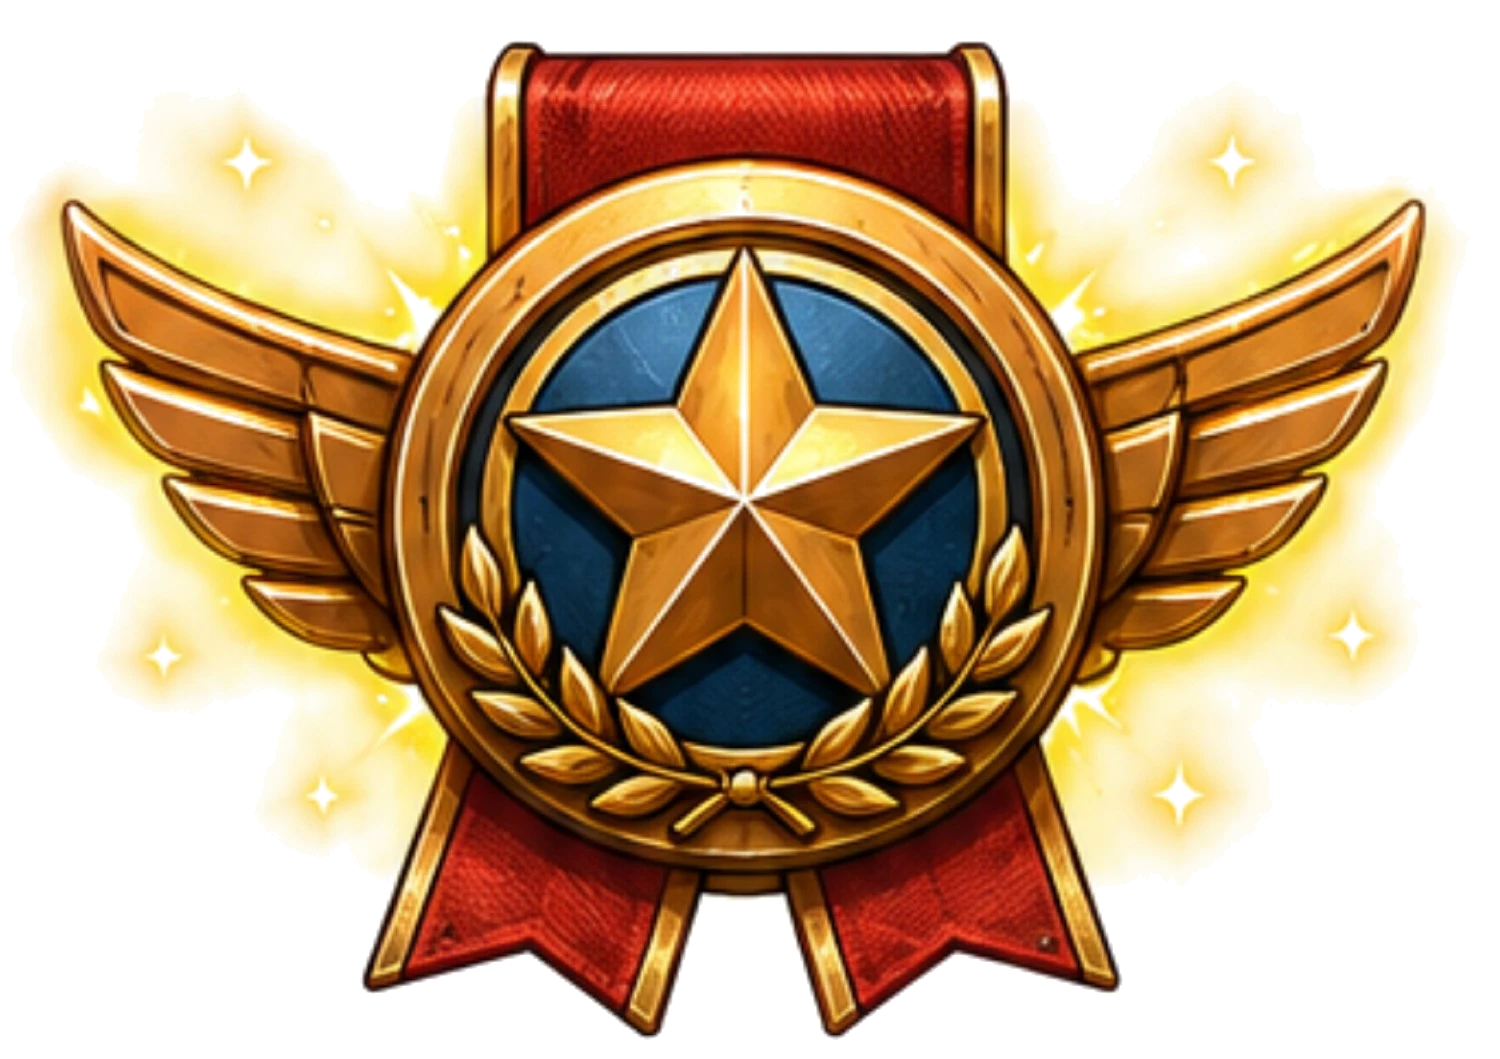
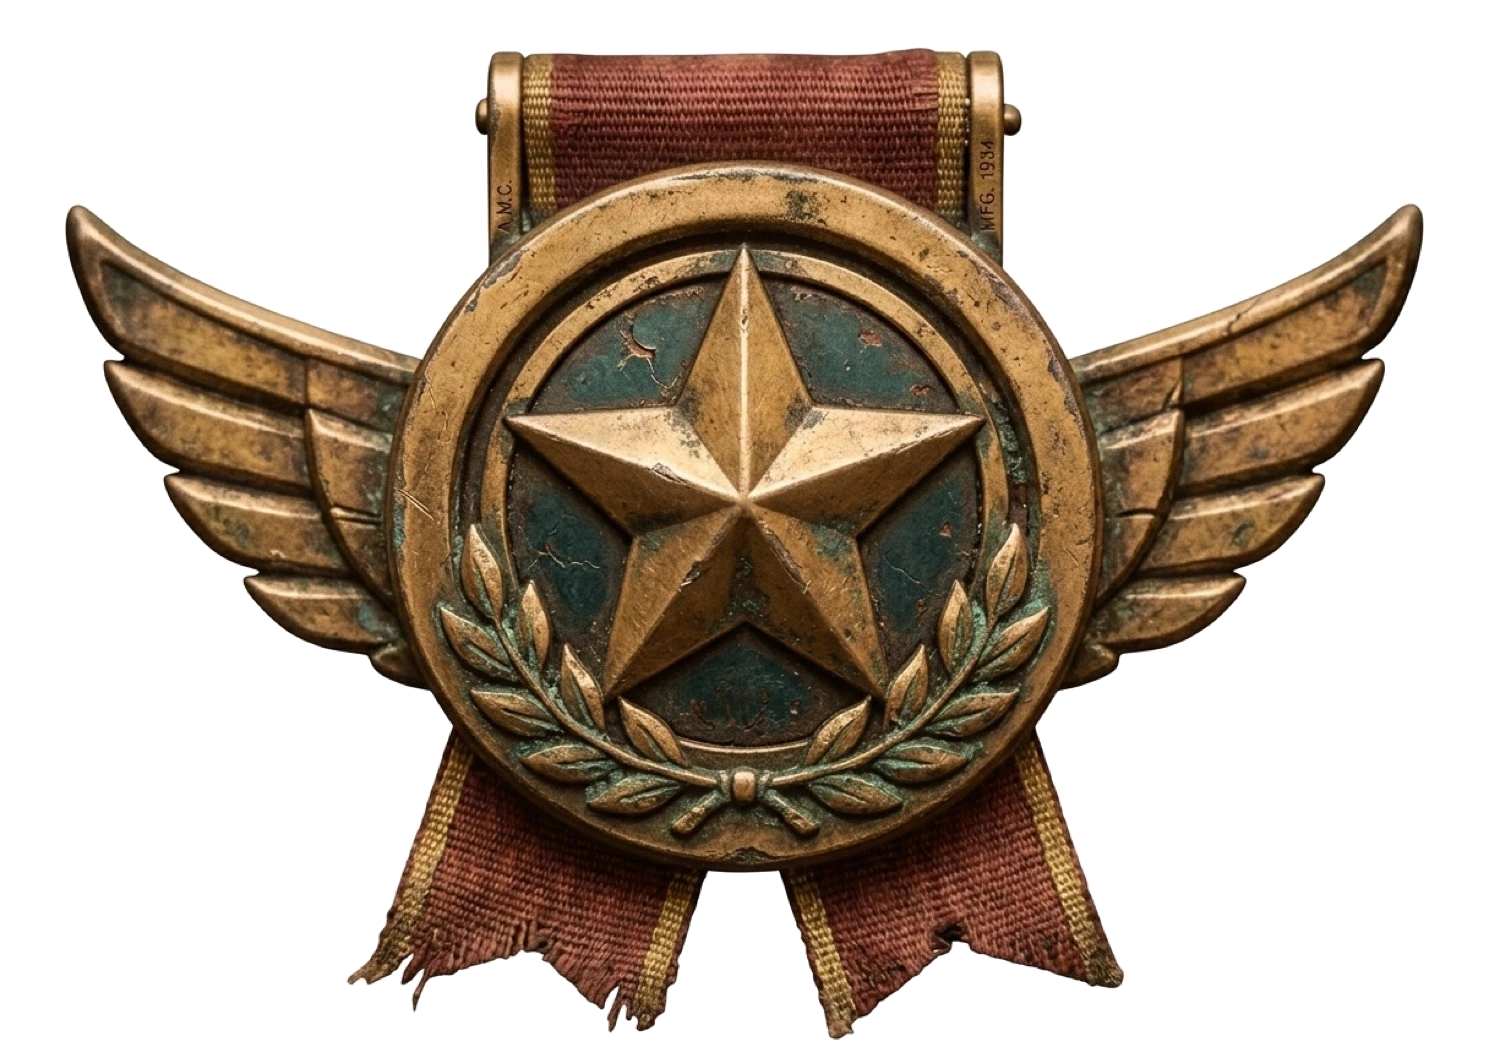
Add files via upload

diff --git a/bosses.js b/bosses.js
@@ -1526,84 +1526,104 @@
       ctx.restore();
     }
 
-    // Stats celebration panel (~5s) with medal behind + count-up numbers
+    // Stats celebration panel with bronze medal + staged fade-in
     if ((levelEndPhase === "stats" || levelEndPhase === "fadeOut") && levelEndStats) {
       const s = levelEndStats;
       const panelW = Math.min(W * 0.78, 320);
       const panelH = 210;
       const px = (W - panelW) / 2;
       const py = H * 0.28;
-      const alpha = levelEndPhase === "fadeOut" ? Math.max(0, 1 - levelEndFade) : Math.min(1, levelEndTimer * 2);
+      const fadeOutA = levelEndPhase === "fadeOut" ? Math.max(0, 1 - levelEndFade) : 1;
 
-      const countT = levelEndPhase === "fadeOut" ? 1 : Math.min(1, levelEndTimer / 3.2);
+      // Staged reveal: medal first, then panel, then text
+      const tMedal = levelEndPhase === "fadeOut" ? 1 : Math.min(1, levelEndTimer / 0.55);
+      const tPanel = levelEndPhase === "fadeOut" ? 1 : Math.max(0, Math.min(1, (levelEndTimer - 0.25) / 0.5));
+      const tText  = levelEndPhase === "fadeOut" ? 1 : Math.max(0, Math.min(1, (levelEndTimer - 0.55) / 0.45));
+      const easeIn = function(u) { return 1 - Math.pow(1 - u, 3); };
+      const eMedal = easeIn(tMedal);
+      const ePanel = easeIn(tPanel);
+      const eText  = easeIn(tText);
+
+      const countT = levelEndPhase === "fadeOut" ? 1 : Math.min(1, Math.max(0, (levelEndTimer - 0.6) / 3.0));
       const ease = 1 - Math.pow(1 - countT, 3);
       function countInt(target) {
         return Math.round((Number(target) || 0) * ease);
       }
 
-      ctx.save();
-      ctx.globalAlpha = alpha;
-
-      // Medal badge BEHIND the score box — larger than the panel
+      // --- Medal (behind) — scale + fade in from center ---
       const medal = images.medal_badge;
-      if (medal && medal.naturalWidth) {
+      if (medal && medal.naturalWidth && eMedal > 0.01) {
         const medalW = panelW * 1.55;
         const medalH = medalW * (medal.naturalHeight / medal.naturalWidth);
-        const mx = W / 2 - medalW / 2;
-        const my = py + panelH / 2 - medalH / 2 - 8;
+        const scale = 0.72 + 0.28 * eMedal;
+        const mw = medalW * scale;
+        const mh = medalH * scale;
+        const mx = W / 2 - mw / 2;
+        const my = py + panelH / 2 - mh / 2 - 8;
         ctx.save();
-        ctx.globalAlpha = alpha * 0.95;
-        ctx.drawImage(medal, mx, my, medalW, medalH);
+        ctx.globalAlpha = fadeOutA * eMedal;
+        ctx.drawImage(medal, mx, my, mw, mh);
         ctx.restore();
       }
 
-      // Semi-transparent glass panel matching medal gold / navy / red
-      ctx.fillStyle = "rgba(18, 28, 55, 0.42)"; // navy-blue glass
-      roundRect(ctx, px, py, panelW, panelH, 16);
-      ctx.fill();
-      // Gold rim
-      ctx.strokeStyle = "rgba(212, 170, 70, 0.9)";
-      ctx.lineWidth = 2.5;
-      roundRect(ctx, px, py, panelW, panelH, 16);
-      ctx.stroke();
-      // Soft red inner accent (ribbon colors)
-      ctx.strokeStyle = "rgba(180, 40, 40, 0.35)";
-      ctx.lineWidth = 5;
-      roundRect(ctx, px + 3, py + 3, panelW - 6, panelH - 6, 13);
-      ctx.stroke();
+      // --- Glass panel (bronze / patina tones) ---
+      if (ePanel > 0.01) {
+        ctx.save();
+        ctx.globalAlpha = fadeOutA * ePanel * 0.95;
+        // Slight rise as it appears
+        const yOff = (1 - ePanel) * 18;
+        const ppx = px;
+        const ppy = py + yOff;
 
-      ctx.textAlign = "center";
-      ctx.fillStyle = "#f5e6b8"; // soft gold
-      ctx.font = "bold 22px 'Rockwell', 'Rockwell Nova', 'Roboto Slab', Georgia, serif";
-      ctx.shadowColor = "rgba(0,0,0,0.55)";
-      ctx.shadowBlur = 6;
-      const clearLvl = s.levelNum || bossesDefeatedCount;
-      ctx.fillText("LEVEL " + clearLvl + " CLEAR", W / 2, py + 34);
-      ctx.shadowBlur = 0;
+        ctx.fillStyle = "rgba(42, 32, 22, 0.48)"; // aged bronze glass
+        roundRect(ctx, ppx, ppy, panelW, panelH, 16);
+        ctx.fill();
+        ctx.strokeStyle = "rgba(180, 140, 75, 0.85)"; // bronze rim
+        ctx.lineWidth = 2.5;
+        roundRect(ctx, ppx, ppy, panelW, panelH, 16);
+        ctx.stroke();
+        ctx.strokeStyle = "rgba(120, 55, 40, 0.4)"; // ribbon rust accent
+        ctx.lineWidth = 5;
+        roundRect(ctx, ppx + 3, ppy + 3, panelW - 6, panelH - 6, 13);
+        ctx.stroke();
 
-      ctx.font = "14px 'Rockwell', 'Rockwell Nova', 'Roboto Slab', Georgia, serif";
-      ctx.fillStyle = "rgba(245, 230, 190, 0.85)";
-      ctx.fillText((s.bossName || "Boss") + " defeated", W / 2, py + 56);
+        if (eText > 0.01) {
+          ctx.globalAlpha = fadeOutA * eText;
+          ctx.textAlign = "center";
+          ctx.fillStyle = "#e8d4a8";
+          ctx.font = "bold 22px 'Rockwell', 'Rockwell Nova', 'Roboto Slab', Georgia, serif";
+          ctx.shadowColor = "rgba(0,0,0,0.55)";
+          ctx.shadowBlur = 6;
+          const clearLvl = s.levelNum || bossesDefeatedCount;
+          ctx.fillText("LEVEL " + clearLvl + " CLEAR", W / 2, ppy + 34);
+          ctx.shadowBlur = 0;
 
-      const rows = [
-        ["SCORE", countInt(s.score).toLocaleString(), false],
-        ["TIME", s.timeStr, true],
-        ["LANDING BONUS", "+" + countInt(s.landingBonus), false],
-        ["HEALTH LEFT", String(countInt(s.health)), false]
-      ];
-      rows.forEach((row, i) => {
-        const ry = py + 88 + i * 26;
-        ctx.textAlign = "left";
-        ctx.fillStyle = "rgba(245, 230, 190, 0.8)";
-        ctx.font = "15px 'Rockwell', 'Rockwell Nova', 'Roboto Slab', Georgia, serif";
-        ctx.fillText(row[0], px + 26, ry);
-        ctx.textAlign = "right";
-        ctx.fillStyle = "#ffe9a8";
-        ctx.font = "bold 16px 'Rockwell', 'Rockwell Nova', 'Roboto Slab', Georgia, serif";
-        ctx.fillText(row[1], px + panelW - 26, ry);
-      });
+          ctx.font = "14px 'Rockwell', 'Rockwell Nova', 'Roboto Slab', Georgia, serif";
+          ctx.fillStyle = "rgba(230, 210, 170, 0.88)";
+          ctx.fillText((s.bossName || "Boss") + " defeated", W / 2, ppy + 56);
 
-      ctx.restore();
+          const rows = [
+            ["SCORE", countInt(s.score).toLocaleString(), false],
+            ["TIME", s.timeStr, true],
+            ["LANDING BONUS", "+" + countInt(s.landingBonus), false],
+            ["HEALTH LEFT", String(countInt(s.health)), false]
+          ];
+          rows.forEach((row, i) => {
+            const ry = ppy + 88 + i * 26;
+            const rowA = Math.max(0, Math.min(1, (eText * 1.4) - i * 0.12));
+            ctx.globalAlpha = fadeOutA * rowA;
+            ctx.textAlign = "left";
+            ctx.fillStyle = "rgba(230, 210, 170, 0.82)";
+            ctx.font = "15px 'Rockwell', 'Rockwell Nova', 'Roboto Slab', Georgia, serif";
+            ctx.fillText(row[0], ppx + 26, ry);
+            ctx.textAlign = "right";
+            ctx.fillStyle = "#f0e0b8";
+            ctx.font = "bold 16px 'Rockwell', 'Rockwell Nova', 'Roboto Slab', Georgia, serif";
+            ctx.fillText(row[1], ppx + panelW - 26, ry);
+          });
+        }
+        ctx.restore();
+      }
     }
 
     // Fade to black
